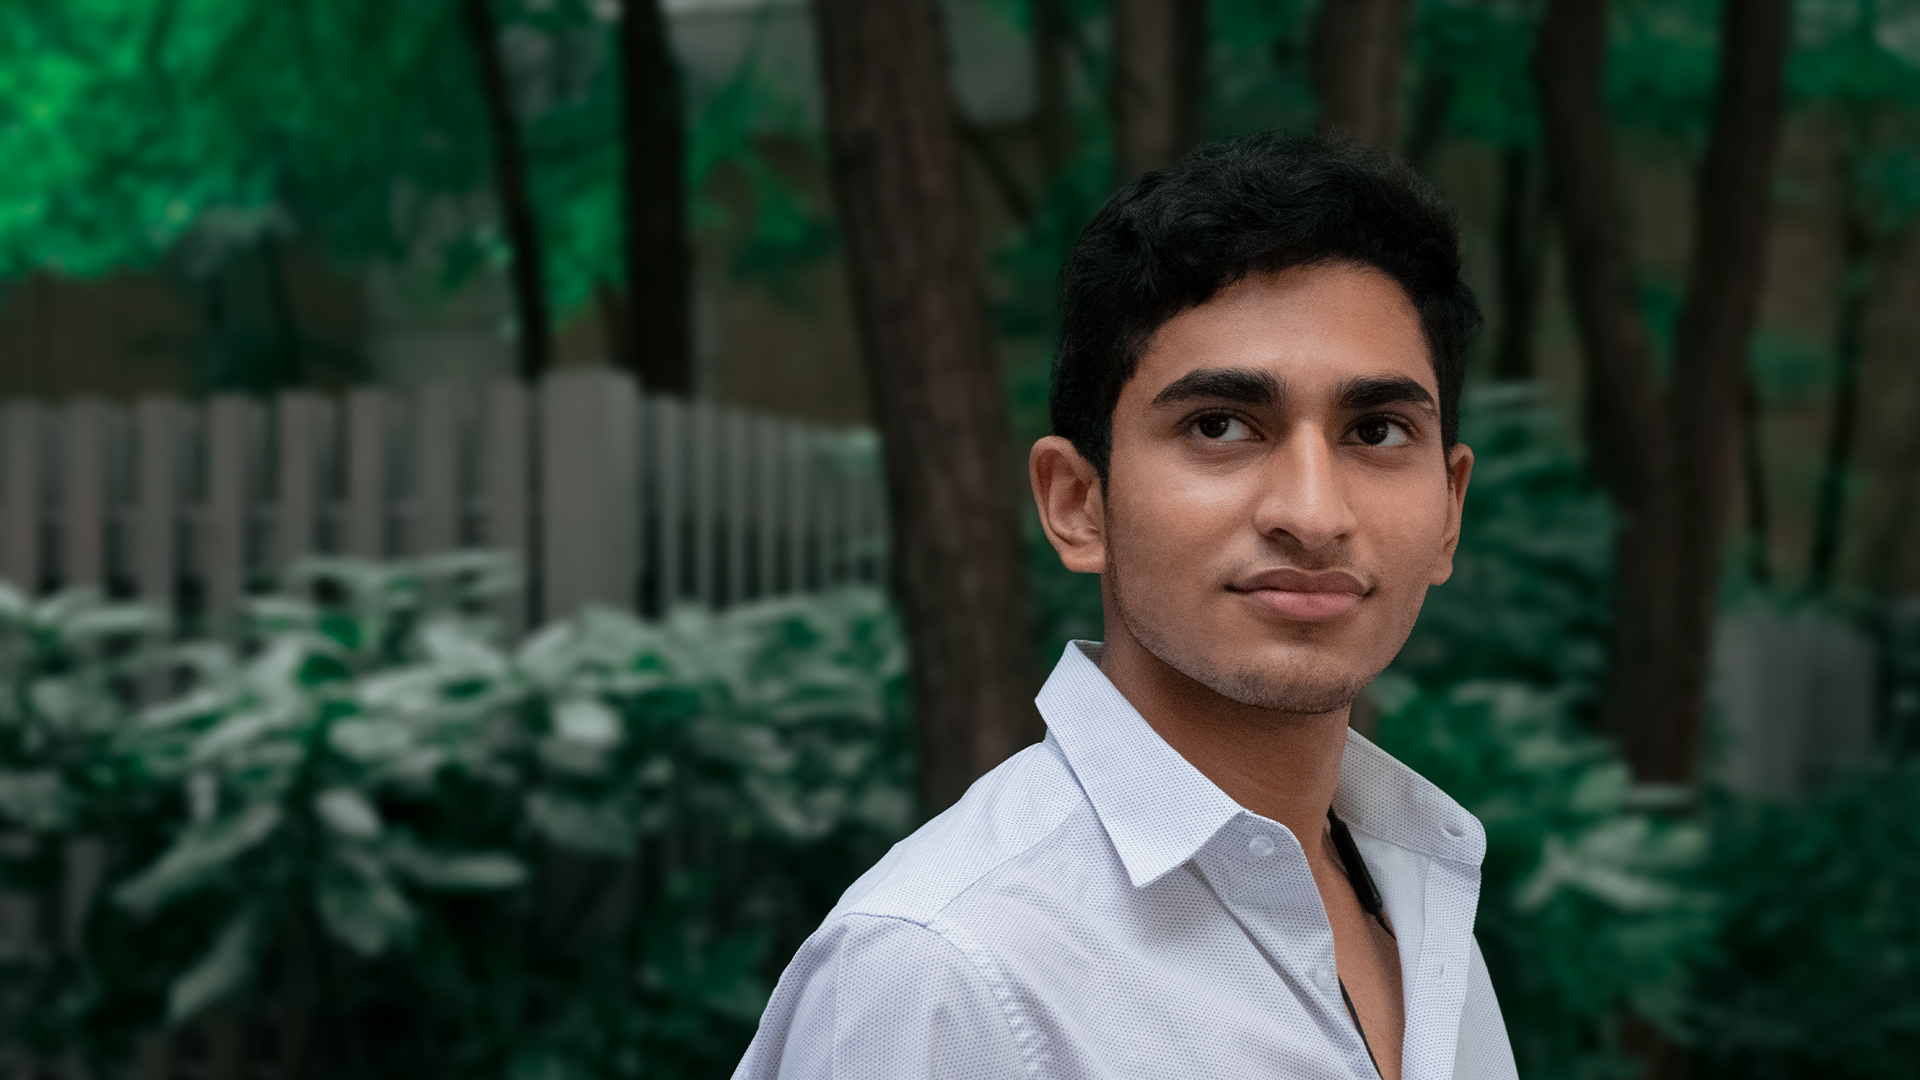
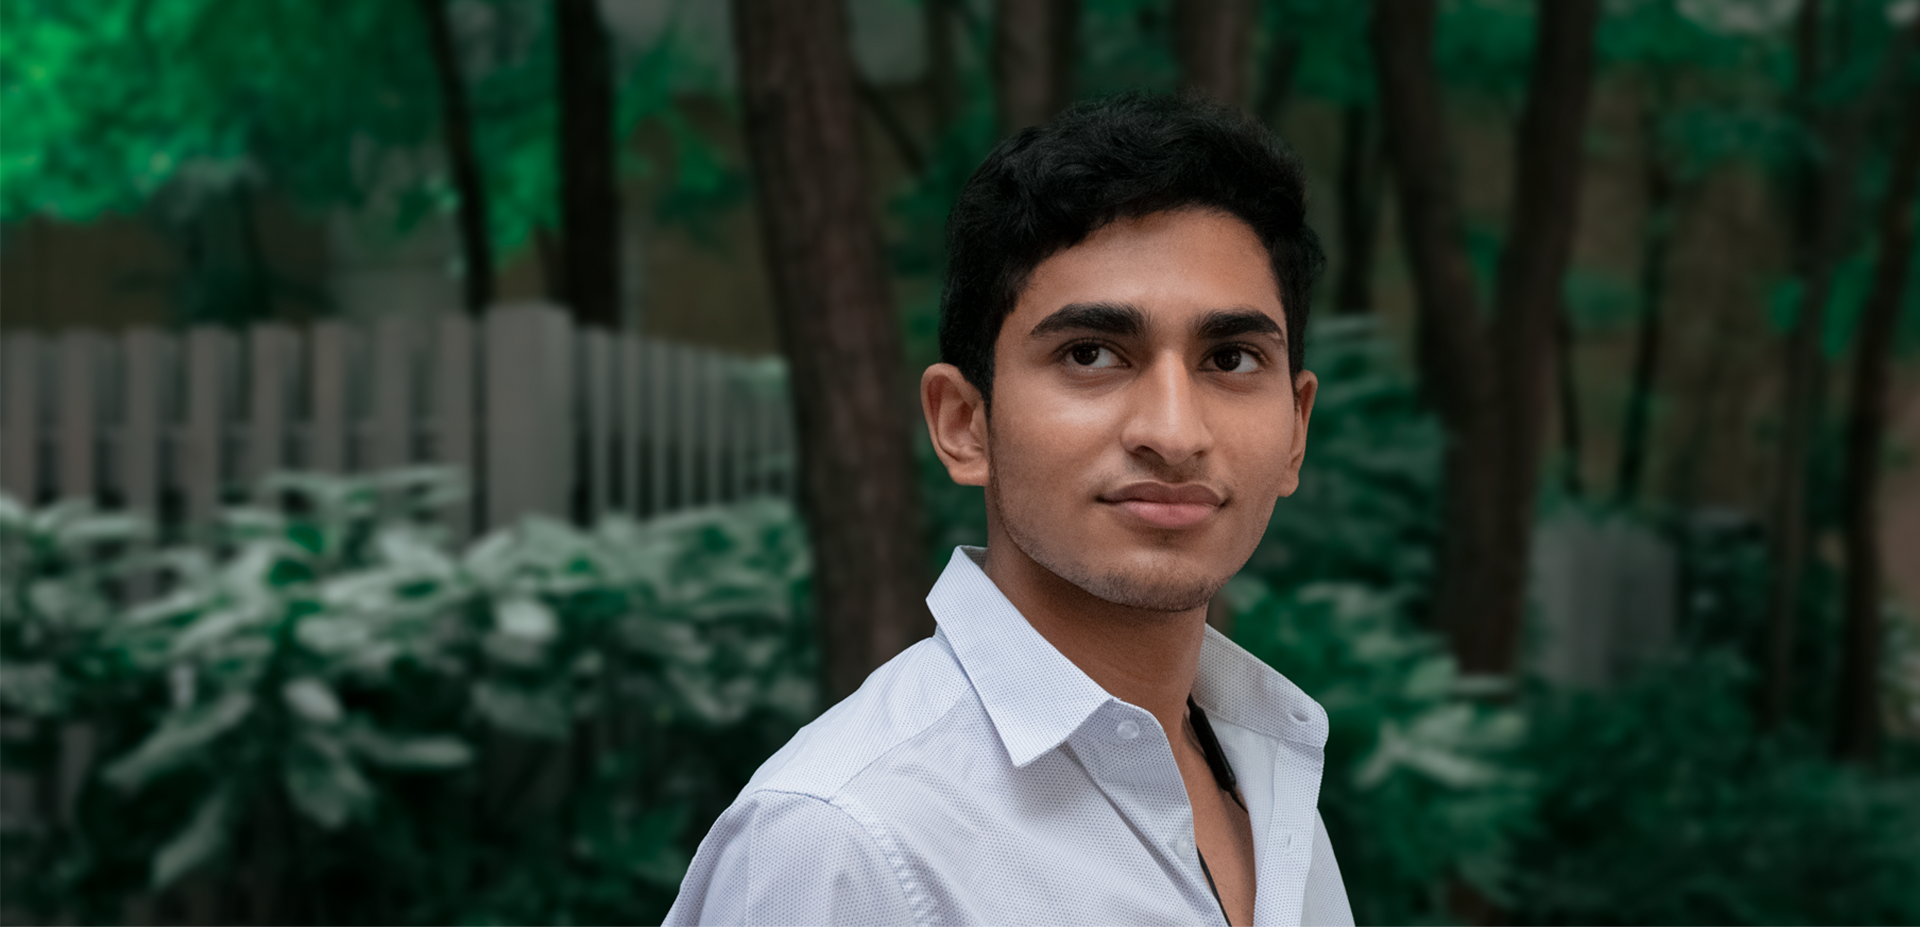
Add home text & background image

diff --git a/css/style.css b/css/style.css
@@ -1,10 +1,13 @@
 :root {
     --black: #000000;
     --dark-gray: #403e3e;
+    --dark-green: #0c2720;
     --light-green: #cedad6;
     --white: #ffffff;
     font-size: 16px;
 }
+
+/* General Styling ---------------------------------------- */
 
 html {
     scroll-behavior: smooth;
@@ -23,22 +26,27 @@ body {
     color: var(--black);
 }
 
+/* Navigation Bar ---------------------------------------- */
+
 nav {
     position: fixed;
     top: 0;
     left: 0;
     width: 100%;
+
     display: flex;
+    align-items: center;
     gap: calc(25px + 1.5%);
     padding: 45px;
-    /* color: var(--white); */
+    color: var(--white);
+    z-index: 2;
 }
 
 #nav-title {
     font-family: 'Spartan', sans-serif;
-    font-weight: 700;
-    font-size: 1.2rem;
-    letter-spacing: .5px;
+    font-weight: 600;
+    font-size: 1.4rem;
+    letter-spacing: 1px;
     margin-right: auto;
 }
 
@@ -47,6 +55,8 @@ nav a {
     cursor: pointer;
     color: inherit;
 }
+
+/* Social Media Sidebar ---------------------------------------- */
 
 .social-container {
     position: fixed;
@@ -57,20 +67,76 @@ nav a {
     display: flex; 
     flex-direction: column;
     border-radius: 15px 0 0 15px;
-    padding: 15px 6px 10px 12px;
+    padding: 15px 6px 10px 10px;
     gap: 5px;
     background-color: var(--white);
     filter: drop-shadow(0 0 2px rgba(0,0,0,.3));
+    z-index: 2;
 }
 
 .social-button {
     width: 60px;
     height: 60px;
-    padding: 6px;
+    padding: 7px;
     background-color: inherit;
-    border-radius: 4px;
+    border-radius: 10px;
 }
 
 .social-button svg, .social-button img{
+    height: 100%;
+}
+
+/* Home ---------------------------------------- */
+
+#home {
+    position: relative;
+    top: 0;
+    left: 0;
     width: 100%;
+    height: 100vh;
+    min-height: 500px;
+}
+
+.home-content-container {
+    position: relative;
+    z-index: -1;
+}
+
+/* Home Image */
+
+.home-image-container {
+    min-height: 400px;
+    max-height: 100vh;
+    overflow: hidden;
+}
+
+#home-image {
+    display: block;
+    width: 100%;
+}
+
+/* Home Text */
+
+.home-text-container {
+    position: absolute;
+    top: 50%;
+    left: 7%;
+    transform: translate3D(0, -55%, 0);
+    z-index: 1;
+}
+
+.home-text-container span {
+    display: block;
+}
+
+.greeting {
+    font-size: calc(1rem + 2.5vw);
+    color: var(--light-green);
+}
+
+.name {
+    font-size: calc(5rem + 2.5vw);
+    font-family: 'Spartan', sans-serif;
+    transform: translate3D(-.5vw, 0, 0); /* Fix indent on large font-size */
+    color: var(--white);
 }

diff --git a/index.html b/index.html
@@ -39,7 +39,25 @@
       </div>
     </div>
     <div id="home">
-
+      <div class="home-content-container">
+        <div class="home-image-container">
+          <picture id="home-image">
+              <source media = "(min-width: 1000px)" 
+                      srcset = "images/home_medium.png 1440w,
+                                images/home_large.png 1920w"
+                      sizes="100vw">
+              <source media = "(max-width: 999px)"
+                      srcset = "images/home_vertical_medium.png 1305w,
+                                images/home_vertical_small.png 653w"
+                      sizes="100vw">
+            <img src="images/home_large.png" alt="Home">
+          </picture>
+        </div>
+        <div class="home-text-container">
+          <span class="greeting">Hi there, I'm</span>
+          <span class="name">Daniel</span>
+        </div>
+      </div>
     </div>
     <div id="about">
 

diff --git a/js/script.js b/js/script.js
@@ -1,0 +1,3 @@
+// $(document).ready(function() {
+//     $("#home-image").height(document.documentElement.clientHeight);
+// });
